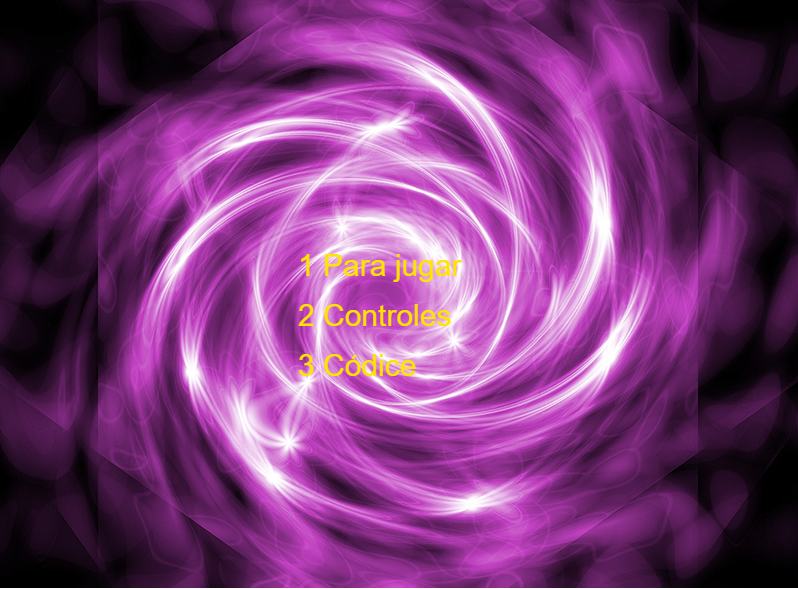
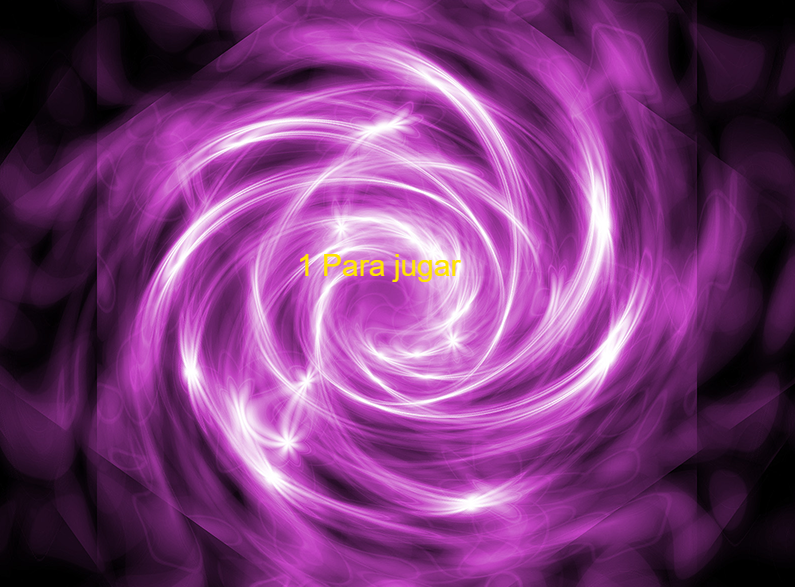
Capturas de pantalla del juego

diff --git a/src/states/menu.js b/src/states/menu.js
@@ -12,8 +12,8 @@ MagicAndRunes.menuState.prototype = {
     create: function() {
         var fondo=game.add.image(0,0,'fondo');
         var texto = game.add.text(300,250,"1 Para jugar",{font:"30px Arial", fill:"#FFE400",align:"center"});
-        var texto2 = game.add.text(300,300,"2 Controles",{font:"30px Arial", fill:"#FFE400",align:"center"});
-        var texto = game.add.text(300,350,"3 Códice",{font:"30px Arial", fill:"#FFE400",align:"center"});
+        /*var texto2 = game.add.text(300,300,"2 Controles",{font:"30px Arial", fill:"#FFE400",align:"center"});
+        var texto = game.add.text(300,350,"3 Códice",{font:"30px Arial", fill:"#FFE400",align:"center"});*/
         this.play=game.input.keyboard.addKey(Phaser.Keyboard.ONE);
     },
 
